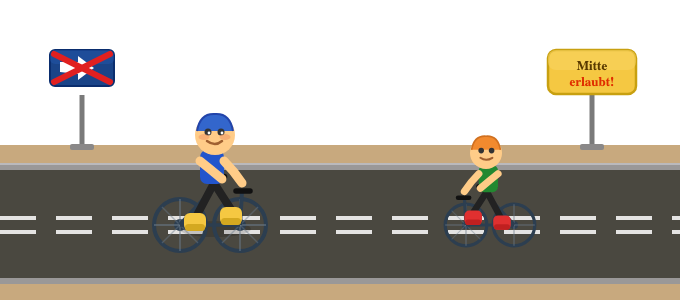
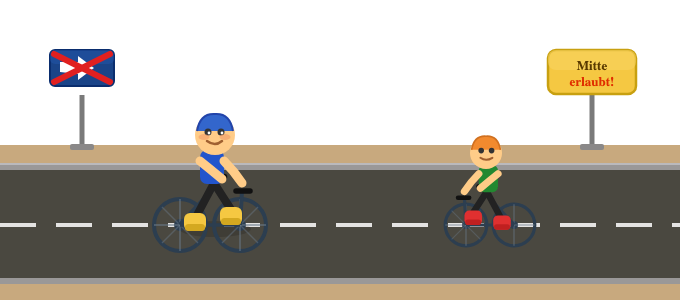
Straßen: Einfache Mittellinie statt Doppellinie

diff --git a/js/main.js b/js/main.js
@@ -719,9 +719,8 @@ function strassenSVG() {
     <rect x="0" y="163" width="680" height="2" fill="#c8c8cc" opacity="0.7"/>
     <!-- Bordstein unten -->
     <rect x="0" y="278" width="680" height="6" fill="#9a9898"/>
-    <!-- Doppelte Mittellinien -->
-    <line x1="0" y1="218" x2="680" y2="218" stroke="white" stroke-width="4" stroke-dasharray="36,20" opacity="0.85"/>
-    <line x1="0" y1="232" x2="680" y2="232" stroke="white" stroke-width="4" stroke-dasharray="36,20" opacity="0.85"/>
+    <!-- Mittellinie -->
+    <line x1="0" y1="225" x2="680" y2="225" stroke="white" stroke-width="4" stroke-dasharray="36,20" opacity="0.85"/>
 
     <!-- Einbahnstraße-Schild (durchgestrichen) links -->
     <line x1="82" y1="148" x2="82" y2="95" stroke="#7a7a7a" stroke-width="5"/>
